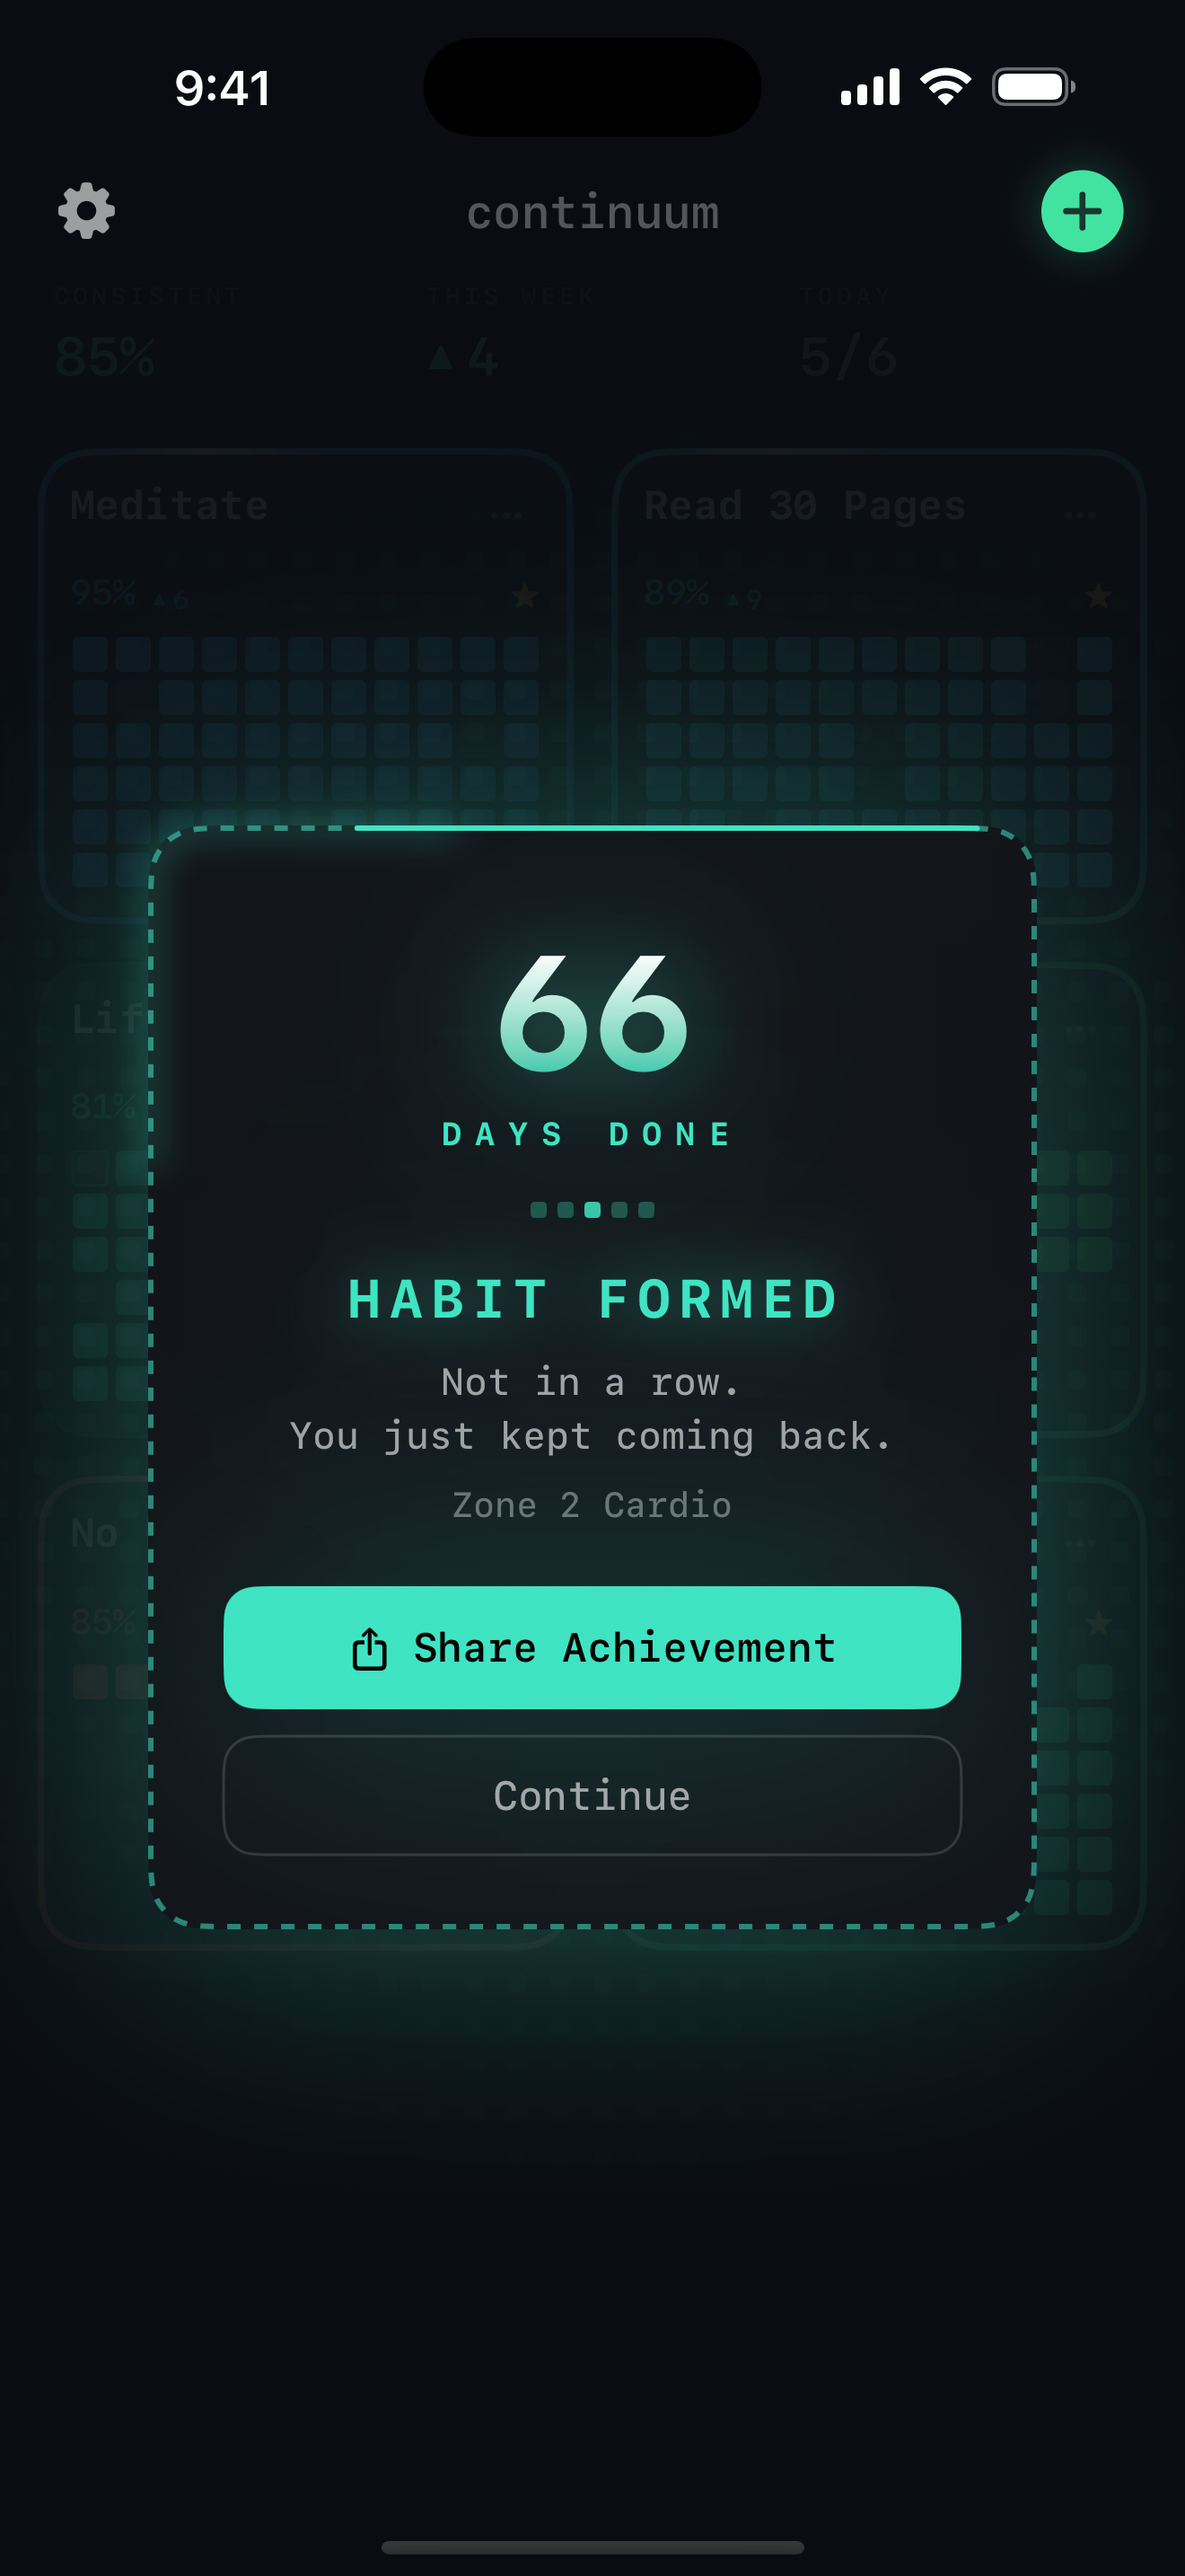
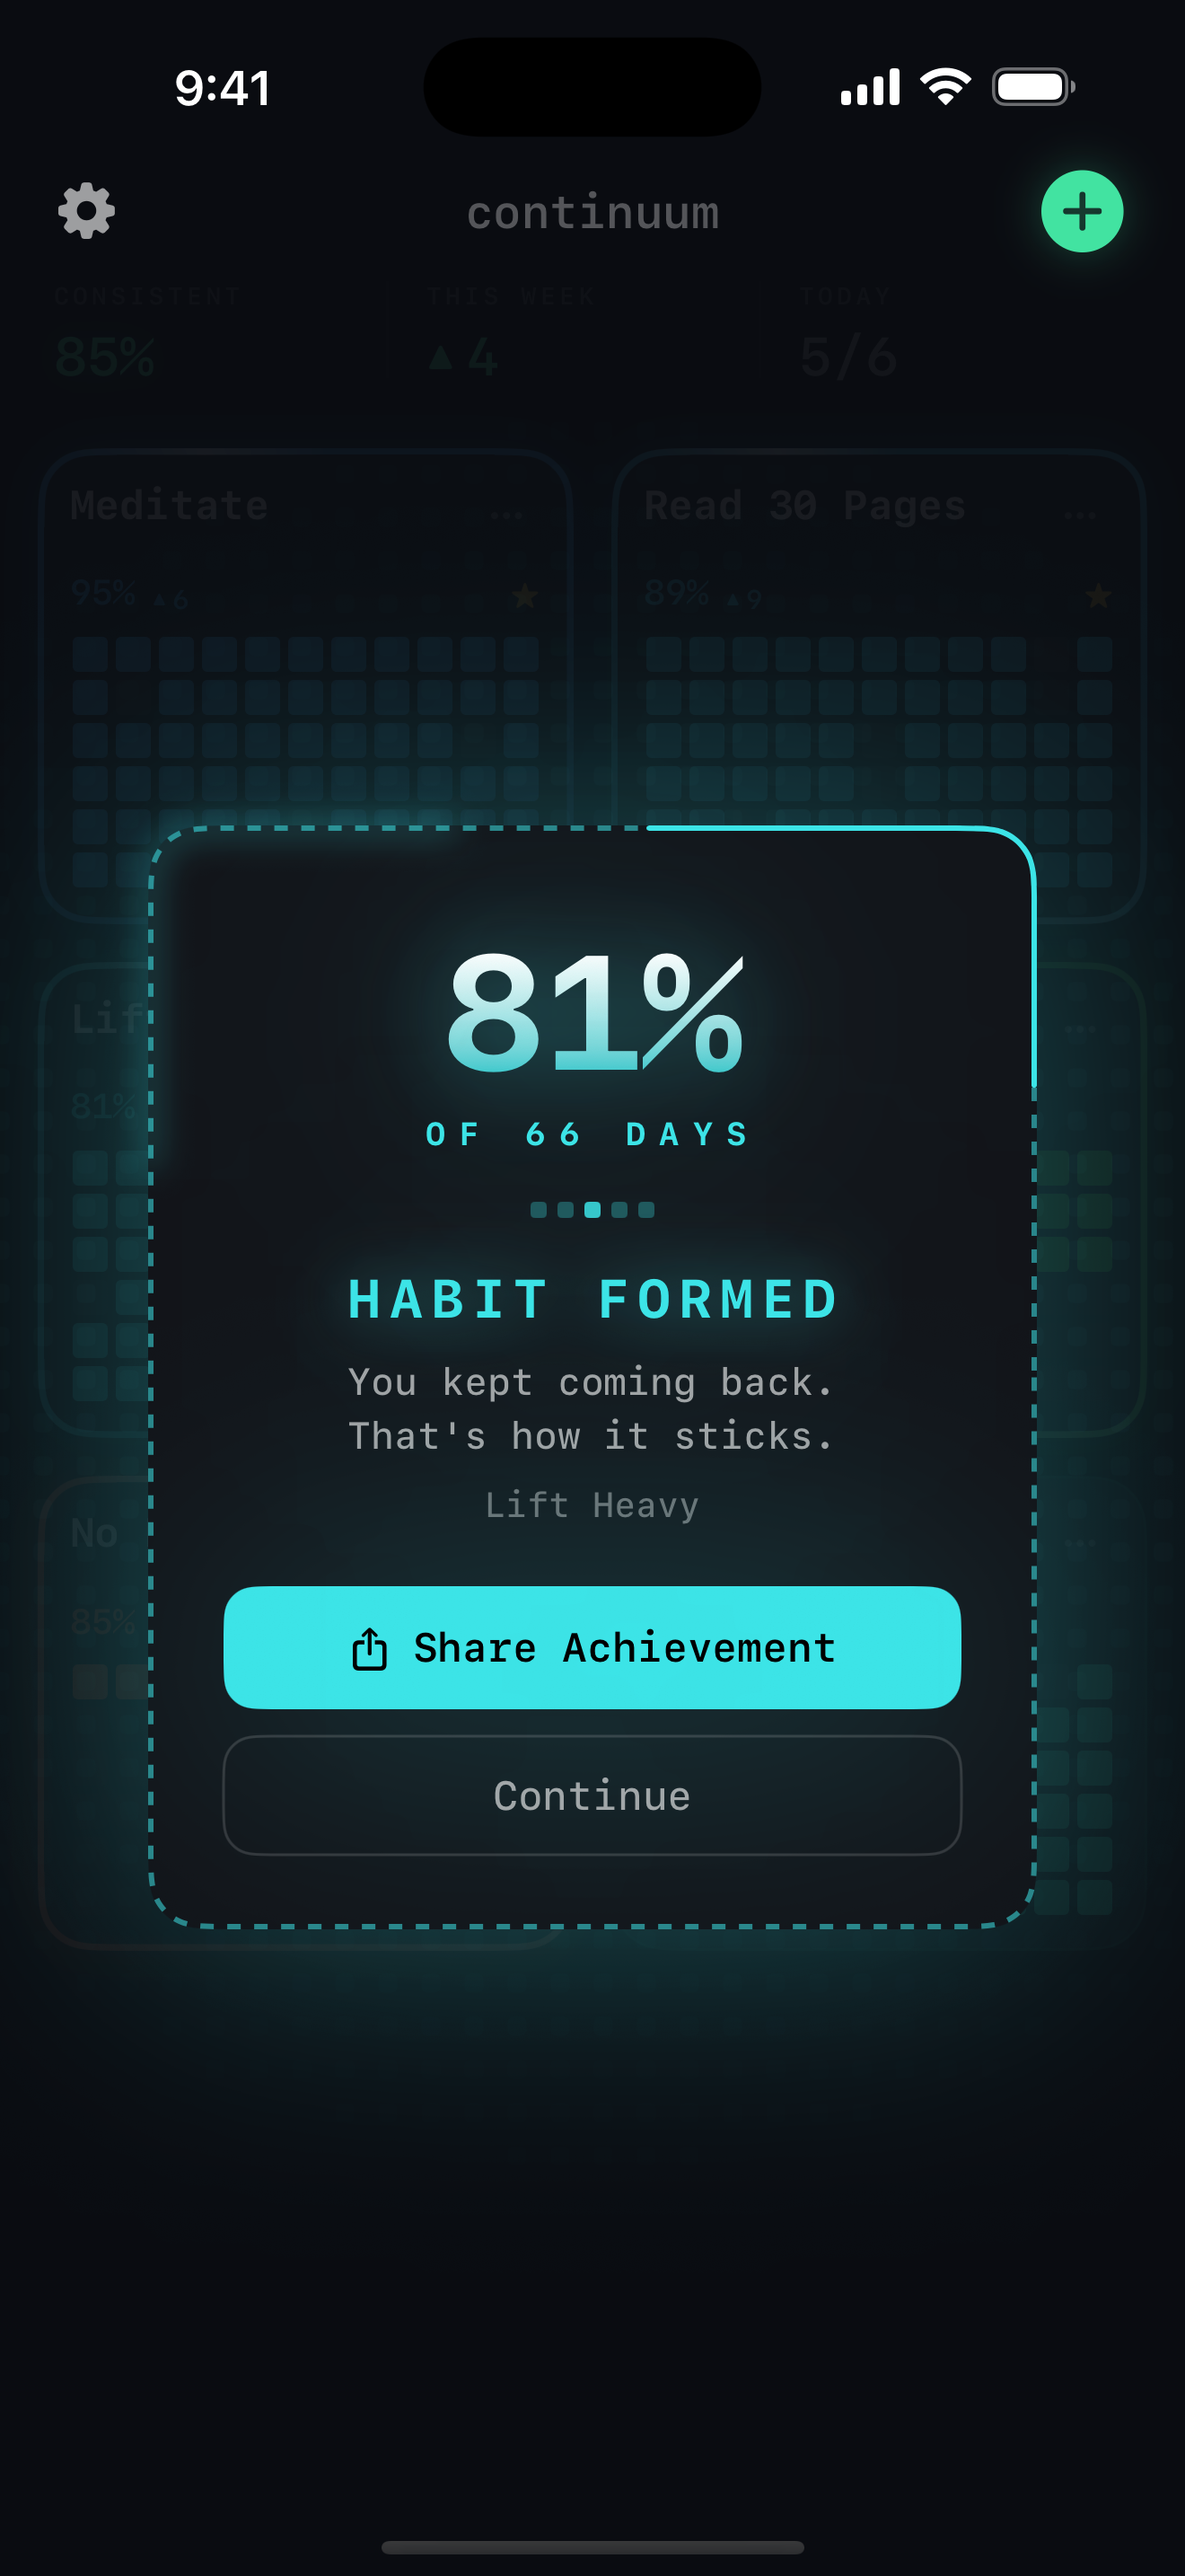
Graduation card copy that fits; screenshots for the formed rule
- "That's how it sticks." fits the card's 21-character line; "That's
  what makes a habit stick." stranded a word on a third line.
- All five App Store shots recaptured: Zone 2 Cardio (73%) has lost its
  star, and the graduation shot is Lift Heavy at 81% of 66 days,
  captioned "66 days. / Most of them."

diff --git a/continuum/Views/CelebrationView.swift b/continuum/Views/CelebrationView.swift
@@ -515,7 +515,7 @@ struct HabitGraduationOverlay: View {
             accent: accent,
             visual: .value("\(percent)%", unit: "of 66 days"),
             title: "HABIT FORMED",
-            message: "You kept coming back.\nThat's what makes a habit stick.",
+            message: "You kept coming back.\nThat's how it sticks.",
             subject: habitName,
             intensity: .full,
             primaryAction: ("Share Achievement", "square.and.arrow.up", onShare),
